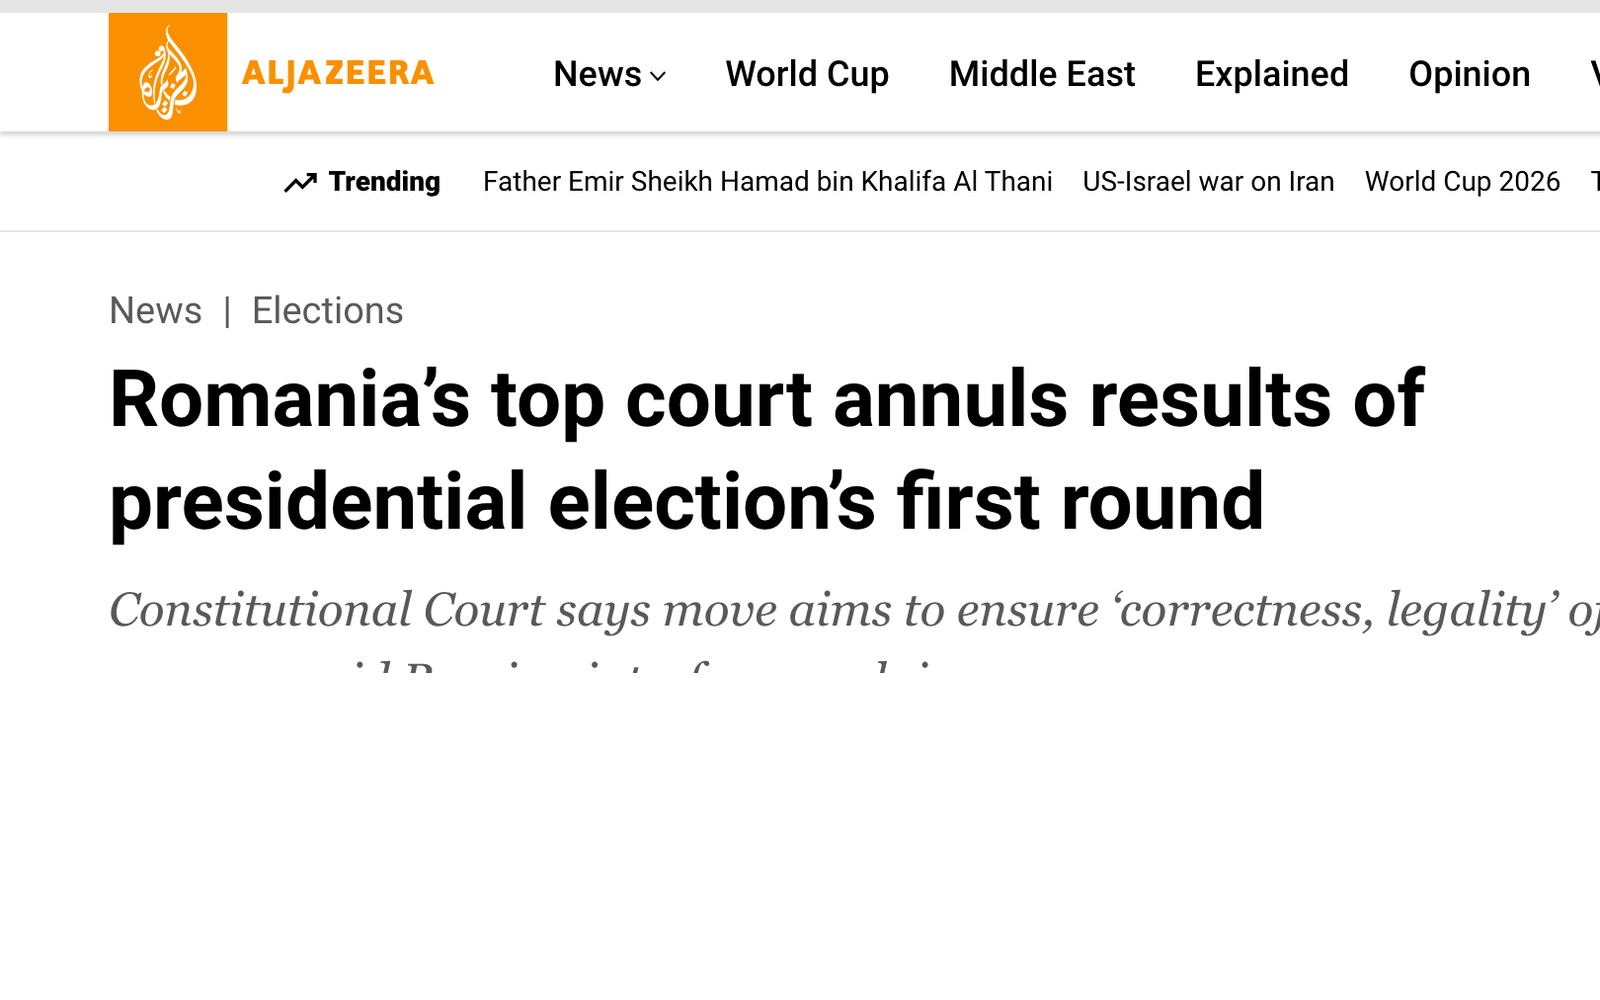
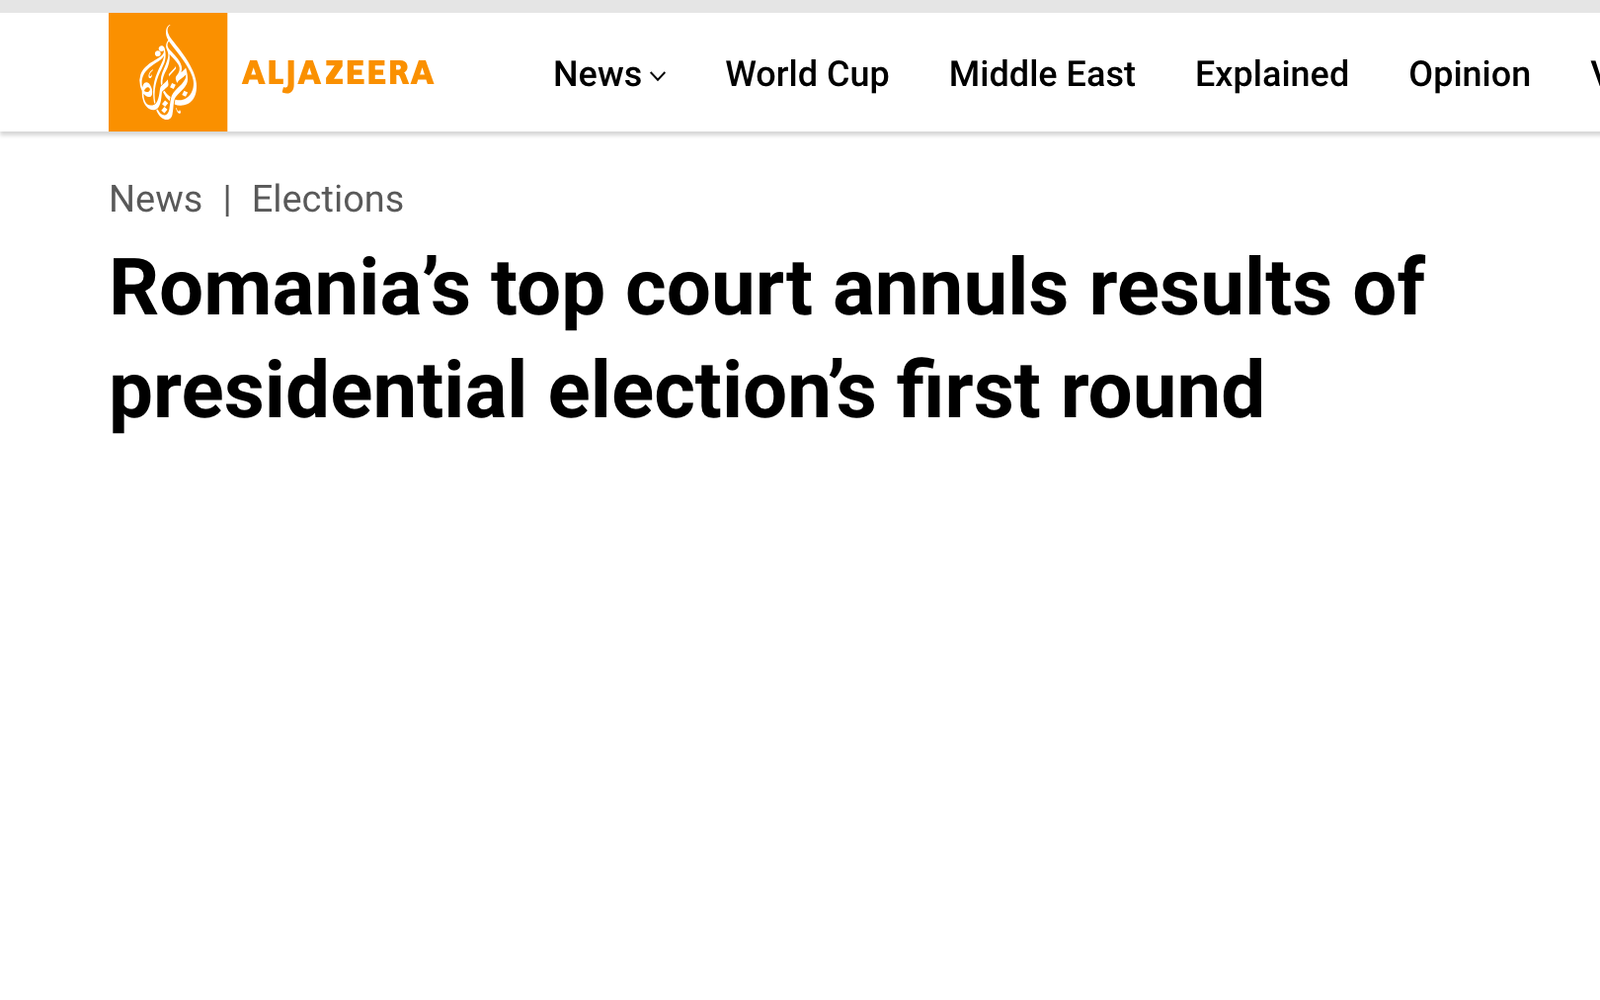
Polish deception wall: cleaner DOJ + Al Jazeera clippings (drop page chrome/ticker)

diff --git a/slides/arbiter.html b/slides/arbiter.html
@@ -102,17 +102,17 @@
     <h2 style="font-size:30px;">Public deception, deliberate and documented</h2>
     <p class="tldr" style="margin-top:8px;">Each one is a real article or public record, sourced on every card.</p>
     <div class="dwall">
-      <figure class="dcard"><img class="shot" src="images/arbiter-2026/deception/doppelganger_c.png" alt="U.S. Department of Justice press release: Justice Department Disrupts Covert Russian Government-Sponsored Foreign Malign Influence Operation">
+      <figure class="dcard"><img class="shot" src="images/arbiter-2026/deception/doppelganger_c.png?v=46" alt="U.S. Department of Justice press release: Justice Department Disrupts Covert Russian Government-Sponsored Foreign Malign Influence Operation">
         <figcaption class="cap"><div class="dl">Russia &middot; 2024</div><div class="fr">A Kremlin operation cloned the Washington Post and Der Spiegel to push propaganda. The Justice Department seized 32 domains.</div><div class="sr">Src &middot; U.S. Department of Justice</div></figcaption></figure>
-      <figure class="dcard"><img class="shot" src="images/arbiter-2026/deception/romania_c.png" alt="Al Jazeera: Romania's top court annuls results of presidential election's first round">
+      <figure class="dcard"><img class="shot" src="images/arbiter-2026/deception/romania_c.png?v=46" alt="Al Jazeera: Romania's top court annuls results of presidential election's first round">
         <figcaption class="cap"><div class="dl">Romania &middot; 2024</div><div class="fr">A court annulled the presidential election's first round after a coordinated TikTok operation lifted a fringe candidate.</div><div class="sr">Src &middot; Al Jazeera</div></figcaption></figure>
-      <figure class="dcard"><img class="shot" src="images/arbiter-2026/deception/spamouflage_c.png" alt="The Record: Chinese law enforcement linked to largest covert influence operation ever discovered">
+      <figure class="dcard"><img class="shot" src="images/arbiter-2026/deception/spamouflage_c.png?v=46" alt="The Record: Chinese law enforcement linked to largest covert influence operation ever discovered">
         <figcaption class="cap"><div class="dl">China &middot; 2023</div><div class="fr">Meta pulled thousands of fake accounts across 50+ platforms, the largest covert influence operation it had ever found.</div><div class="sr">Src &middot; The Record, Recorded Future News</div></figcaption></figure>
-      <figure class="dcard"><img class="shot" src="images/arbiter-2026/deception/slovakia_c.png" alt="International Press Institute: Slovakia, deepfake audio of Denník N journalist offers worrying example of AI abuse">
+      <figure class="dcard"><img class="shot" src="images/arbiter-2026/deception/slovakia_c.png?v=46" alt="International Press Institute: Slovakia, deepfake audio of Denník N journalist offers worrying example of AI abuse">
         <figcaption class="cap"><div class="dl">Slovakia &middot; 2023</div><div class="fr">A faked audio clip of a candidate spread two days before the vote, when a campaign silence kept him from rebutting it.</div><div class="sr">Src &middot; International Press Institute</div></figcaption></figure>
-      <figure class="dcard"><img class="shot" src="images/arbiter-2026/deception/robocall_c.png" alt="PBS NewsHour: Political consultant behind AI-generated Biden robocalls faces 6 million dollar fine and criminal charges">
+      <figure class="dcard"><img class="shot" src="images/arbiter-2026/deception/robocall_c.png?v=46" alt="PBS NewsHour: Political consultant behind AI-generated Biden robocalls faces 6 million dollar fine and criminal charges">
         <figcaption class="cap"><div class="dl">United States &middot; 2024</div><div class="fr">An AI clone of President Biden's voice told New Hampshire voters to stay home. The FCC fined the operator $6 million.</div><div class="sr">Src &middot; PBS NewsHour, AP</div></figcaption></figure>
-      <figure class="dcard"><img class="shot" src="images/arbiter-2026/deception/fiveg_c.png" alt="Full Fact: Here's where those 5G and coronavirus conspiracy theories came from">
+      <figure class="dcard"><img class="shot" src="images/arbiter-2026/deception/fiveg_c.png?v=46" alt="Full Fact: Here's where those 5G and coronavirus conspiracy theories came from">
         <figcaption class="cap"><div class="dl">United Kingdom &middot; 2020</div><div class="fr">The false claim that 5G spreads COVID sent people to set fire to phone masts. There is no link between the two.</div><div class="sr">Src &middot; Full Fact</div></figcaption></figure>
     </div>
   </div><div class="foot"><span class="src">Six documented cases, 2020&ndash;2024 &middot; full source on each card</span><span class="brand">ARBITER &middot; SIMPPL</span></div></div>

diff --git a/slides/arbiter-overview.html b/slides/arbiter-overview.html
@@ -77,17 +77,17 @@
     <h2 style="font-size:30px;">Public deception, deliberate and documented</h2>
     <p class="tldr" style="margin-top:8px;">Each one is a real article or public record, sourced on every card.</p>
     <div class="dwall">
-      <figure class="dcard"><img class="shot" src="images/arbiter-2026/deception/doppelganger_c.png" alt="U.S. Department of Justice press release: Justice Department Disrupts Covert Russian Government-Sponsored Foreign Malign Influence Operation">
+      <figure class="dcard"><img class="shot" src="images/arbiter-2026/deception/doppelganger_c.png?v=46" alt="U.S. Department of Justice press release: Justice Department Disrupts Covert Russian Government-Sponsored Foreign Malign Influence Operation">
         <figcaption class="cap"><div class="dl">Russia &middot; 2024</div><div class="fr">A Kremlin operation cloned the Washington Post and Der Spiegel to push propaganda. The Justice Department seized 32 domains.</div><div class="sr">Src &middot; U.S. Department of Justice</div></figcaption></figure>
-      <figure class="dcard"><img class="shot" src="images/arbiter-2026/deception/romania_c.png" alt="Al Jazeera: Romania's top court annuls results of presidential election's first round">
+      <figure class="dcard"><img class="shot" src="images/arbiter-2026/deception/romania_c.png?v=46" alt="Al Jazeera: Romania's top court annuls results of presidential election's first round">
         <figcaption class="cap"><div class="dl">Romania &middot; 2024</div><div class="fr">A court annulled the presidential election's first round after a coordinated TikTok operation lifted a fringe candidate.</div><div class="sr">Src &middot; Al Jazeera</div></figcaption></figure>
-      <figure class="dcard"><img class="shot" src="images/arbiter-2026/deception/spamouflage_c.png" alt="The Record: Chinese law enforcement linked to largest covert influence operation ever discovered">
+      <figure class="dcard"><img class="shot" src="images/arbiter-2026/deception/spamouflage_c.png?v=46" alt="The Record: Chinese law enforcement linked to largest covert influence operation ever discovered">
         <figcaption class="cap"><div class="dl">China &middot; 2023</div><div class="fr">Meta pulled thousands of fake accounts across 50+ platforms, the largest covert influence operation it had ever found.</div><div class="sr">Src &middot; The Record, Recorded Future News</div></figcaption></figure>
-      <figure class="dcard"><img class="shot" src="images/arbiter-2026/deception/slovakia_c.png" alt="International Press Institute: Slovakia, deepfake audio of Denník N journalist offers worrying example of AI abuse">
+      <figure class="dcard"><img class="shot" src="images/arbiter-2026/deception/slovakia_c.png?v=46" alt="International Press Institute: Slovakia, deepfake audio of Denník N journalist offers worrying example of AI abuse">
         <figcaption class="cap"><div class="dl">Slovakia &middot; 2023</div><div class="fr">A faked audio clip of a candidate spread two days before the vote, when a campaign silence kept him from rebutting it.</div><div class="sr">Src &middot; International Press Institute</div></figcaption></figure>
-      <figure class="dcard"><img class="shot" src="images/arbiter-2026/deception/robocall_c.png" alt="PBS NewsHour: Political consultant behind AI-generated Biden robocalls faces 6 million dollar fine and criminal charges">
+      <figure class="dcard"><img class="shot" src="images/arbiter-2026/deception/robocall_c.png?v=46" alt="PBS NewsHour: Political consultant behind AI-generated Biden robocalls faces 6 million dollar fine and criminal charges">
         <figcaption class="cap"><div class="dl">United States &middot; 2024</div><div class="fr">An AI clone of President Biden's voice told New Hampshire voters to stay home. The FCC fined the operator $6 million.</div><div class="sr">Src &middot; PBS NewsHour, AP</div></figcaption></figure>
-      <figure class="dcard"><img class="shot" src="images/arbiter-2026/deception/fiveg_c.png" alt="Full Fact: Here's where those 5G and coronavirus conspiracy theories came from">
+      <figure class="dcard"><img class="shot" src="images/arbiter-2026/deception/fiveg_c.png?v=46" alt="Full Fact: Here's where those 5G and coronavirus conspiracy theories came from">
         <figcaption class="cap"><div class="dl">United Kingdom &middot; 2020</div><div class="fr">The false claim that 5G spreads COVID sent people to set fire to phone masts. There is no link between the two.</div><div class="sr">Src &middot; Full Fact</div></figcaption></figure>
     </div>
   </div><div class="foot"><span class="src">Six documented cases, 2020&ndash;2024 &middot; full source on each card</span><span class="brand">ARBITER &middot; SIMPPL</span></div></div>
